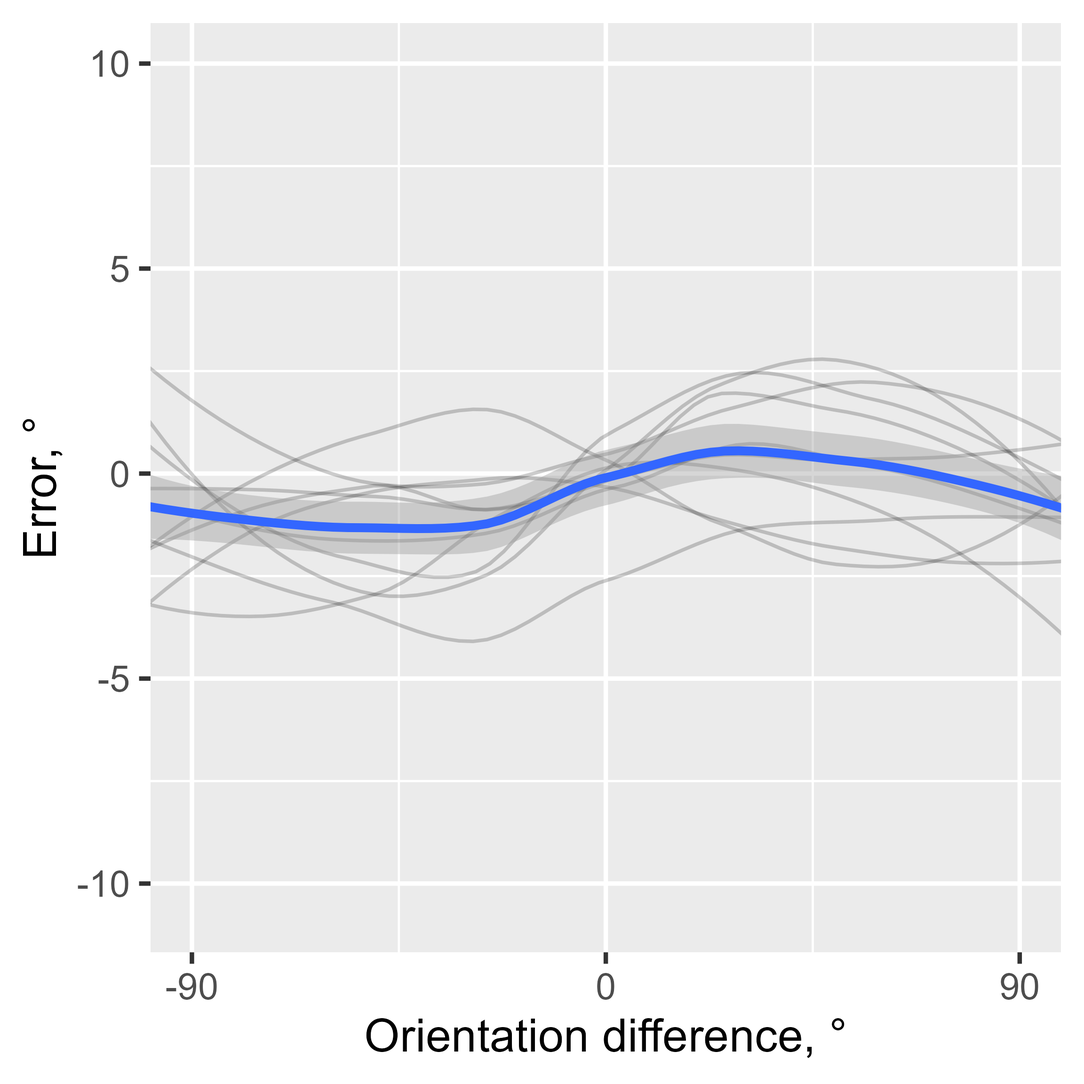
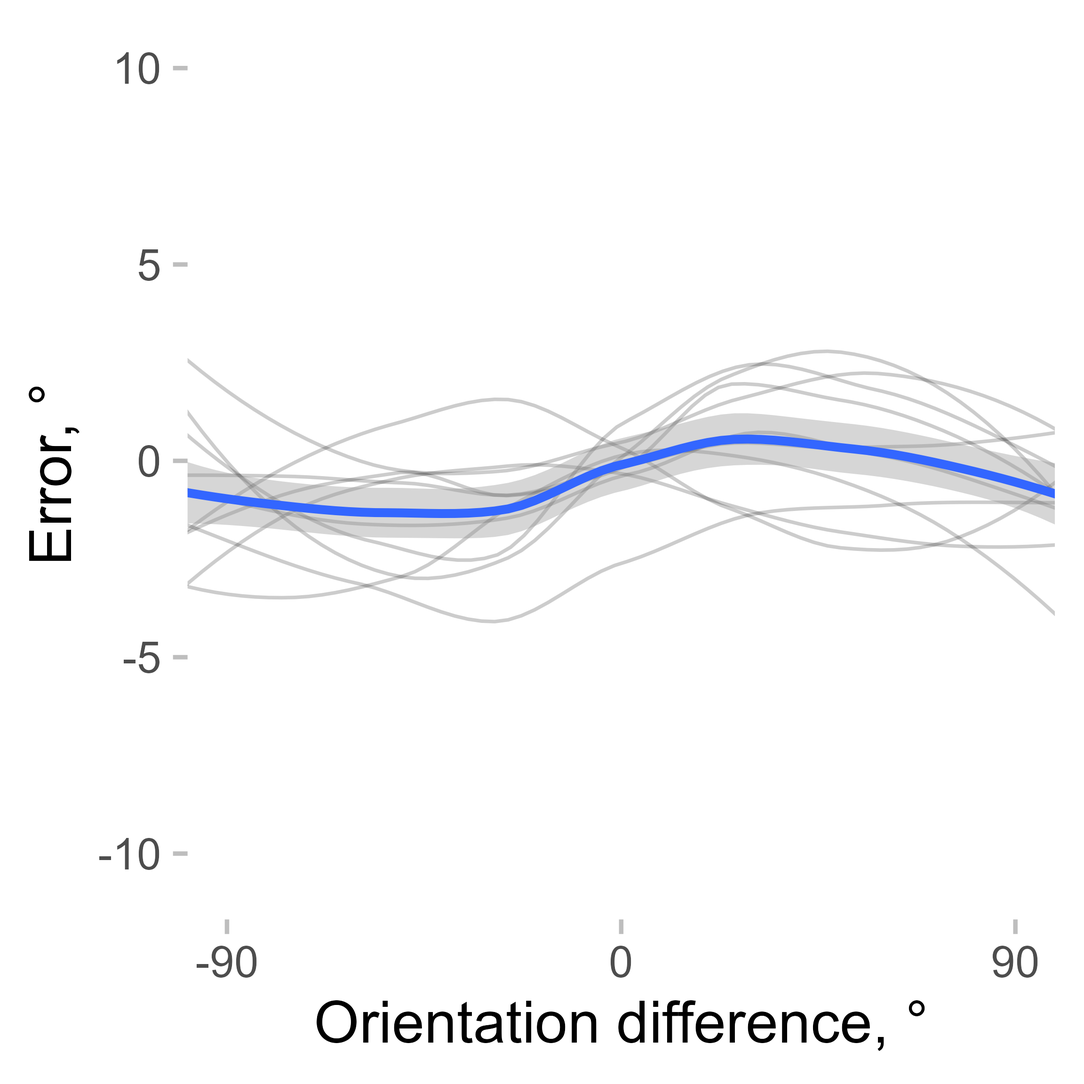
docs updated

diff --git a/docs/articles/cardinal_biases.html b/docs/articles/cardinal_biases.html
@@ -134,31 +134,40 @@ bias (disregarding the sign of the average error).</p>
 <p>Then, we can check how SD estimates are affected by the removal of
 cardinal biases. For the sake of completeness, I also show the result of
 removing the mean error only (which is close to nothing).</p>
-<p>First, for each observer, I compute a corrected error.</p>
+<p>First, for each observer, I compute a corrected error and find the
+trials likely to be the outliers. <code>remove_cardinal_biases</code>
+returns a <code>data.table</code> object with multiple columns with the
+most commonly used ones being the bias-corrected error
+(<code>be_c</code>) and an outlier marker (<code>is_outlier</code>). I
+save them in the <code>data</code>:</p>
 <div class="sourceCode" id="cb5"><pre class="downlit sourceCode r">
-<code class="sourceCode R"><span><span class="va">data</span><span class="op">[</span>, <span class="va">err_corrected</span> <span class="op">:=</span> <span class="fu"><a href="../reference/remove_cardinal_biases.html">remove_cardinal_biases</a></span><span class="op">(</span><span class="va">err</span>, <span class="va">orientation</span><span class="op">)</span><span class="op">$</span><span class="va">be_c</span>, by <span class="op">=</span> <span class="va">observer</span><span class="op">]</span></span>
-<span><span class="va">data</span><span class="op">[</span>, <span class="va">err_mean_corrected</span> <span class="op">:=</span> <span class="fu"><a href="../reference/angle_diff_rad.html">angle_diff_180</a></span><span class="op">(</span><span class="va">err</span>, <span class="fu"><a href="../reference/circ_mean_rad.html">circ_mean_180</a></span><span class="op">(</span><span class="va">err</span><span class="op">)</span><span class="op">)</span>, by <span class="op">=</span> <span class="va">observer</span><span class="op">]</span></span></code></pre></div>
-<p>Then, I plot these errors along with the raw errors as a function of
-the previous item orientation and plot them.</p>
+<code class="sourceCode R"><span><span class="va">data</span><span class="op">[</span>, <span class="fu"><a href="https://rdrr.io/r/base/c.html" class="external-link">c</a></span><span class="op">(</span><span class="st">"err_corrected"</span>, <span class="st">"is_outlier"</span><span class="op">)</span> <span class="op">:=</span> <span class="fu"><a href="../reference/remove_cardinal_biases.html">remove_cardinal_biases</a></span><span class="op">(</span><span class="va">err</span>, <span class="va">orientation</span><span class="op">)</span><span class="op">[</span>, <span class="fu"><a href="https://rdrr.io/r/base/c.html" class="external-link">c</a></span><span class="op">(</span><span class="st">"be_c"</span>, <span class="st">"is_outlier"</span><span class="op">)</span><span class="op">]</span>, by <span class="op">=</span> <span class="va">observer</span><span class="op">]</span></span></code></pre></div>
+<p>As a comparison, we can just use a correction for the overall mean
+error.</p>
 <div class="sourceCode" id="cb6"><pre class="downlit sourceCode r">
-<code class="sourceCode R"><span><span class="va">datam</span> <span class="op">&lt;-</span> <span class="fu"><a href="https://rdatatable.gitlab.io/data.table/reference/melt.data.table.html" class="external-link">melt</a></span><span class="op">(</span><span class="va">data</span><span class="op">[</span><span class="op">!</span><span class="fu"><a href="https://rdrr.io/r/base/NA.html" class="external-link">is.na</a></span><span class="op">(</span><span class="va">diff_in_ori</span><span class="op">)</span><span class="op">]</span>, id.vars <span class="op">=</span> <span class="fu"><a href="https://rdrr.io/r/base/c.html" class="external-link">c</a></span><span class="op">(</span><span class="st">"diff_in_ori"</span>, <span class="st">"observer"</span><span class="op">)</span>, measure.vars <span class="op">=</span> <span class="fu"><a href="https://rdrr.io/r/base/c.html" class="external-link">c</a></span><span class="op">(</span><span class="st">"err"</span>, <span class="st">"err_corrected"</span>, <span class="st">"err_mean_corrected"</span><span class="op">)</span><span class="op">)</span></span>
+<code class="sourceCode R"><span><span class="va">data</span><span class="op">[</span>, <span class="va">err_mean_corrected</span> <span class="op">:=</span> <span class="fu"><a href="../reference/angle_diff_rad.html">angle_diff_180</a></span><span class="op">(</span><span class="va">err</span>, <span class="fu"><a href="../reference/circ_mean_rad.html">circ_mean_180</a></span><span class="op">(</span><span class="va">err</span><span class="op">)</span><span class="op">)</span>, by <span class="op">=</span> <span class="va">observer</span><span class="op">]</span></span></code></pre></div>
+<p>Then, I plot these errors along with the raw errors as a function of
+the previous item orientation (with the outliers removed) and plot
+them.</p>
+<div class="sourceCode" id="cb7"><pre class="downlit sourceCode r">
+<code class="sourceCode R"><span><span class="va">datam</span> <span class="op">&lt;-</span> <span class="fu"><a href="https://rdatatable.gitlab.io/data.table/reference/melt.data.table.html" class="external-link">melt</a></span><span class="op">(</span><span class="va">data</span><span class="op">[</span><span class="op">!</span><span class="fu"><a href="https://rdrr.io/r/base/NA.html" class="external-link">is.na</a></span><span class="op">(</span><span class="va">diff_in_ori</span><span class="op">)</span><span class="op">]</span>, id.vars <span class="op">=</span> <span class="fu"><a href="https://rdrr.io/r/base/c.html" class="external-link">c</a></span><span class="op">(</span><span class="st">"diff_in_ori"</span>, <span class="st">"observer"</span>, <span class="st">"is_outlier"</span><span class="op">)</span>, measure.vars <span class="op">=</span> <span class="fu"><a href="https://rdrr.io/r/base/c.html" class="external-link">c</a></span><span class="op">(</span><span class="st">"err"</span>, <span class="st">"err_corrected"</span>, <span class="st">"err_mean_corrected"</span><span class="op">)</span><span class="op">)</span></span>
 <span><span class="va">datam</span><span class="op">[</span>, <span class="va">variablef</span> <span class="op">:=</span> <span class="fu"><a href="https://rdrr.io/r/base/factor.html" class="external-link">factor</a></span><span class="op">(</span><span class="va">variable</span>, levels <span class="op">=</span> <span class="fu"><a href="https://rdrr.io/r/base/c.html" class="external-link">c</a></span><span class="op">(</span><span class="st">"err"</span>, <span class="st">"err_mean_corrected"</span>, <span class="st">"err_corrected"</span><span class="op">)</span>, labels <span class="op">=</span> <span class="fu"><a href="https://rdrr.io/r/base/c.html" class="external-link">c</a></span><span class="op">(</span><span class="st">"Raw error"</span>, <span class="st">"Mean-corrected"</span>, <span class="st">"Mean and cardinal bias removed"</span><span class="op">)</span><span class="op">)</span><span class="op">]</span></span>
 <span><span class="va">datam</span><span class="op">[</span>, <span class="va">err_rel_to_prev_targ</span> <span class="op">:=</span> <span class="fu"><a href="https://rdrr.io/r/base/ifelse.html" class="external-link">ifelse</a></span><span class="op">(</span><span class="va">diff_in_ori</span> <span class="op">&lt;</span> <span class="fl">0</span>, <span class="op">-</span><span class="va">value</span>, <span class="va">value</span><span class="op">)</span><span class="op">]</span></span>
 <span></span>
-<span><span class="fu"><a href="https://ggplot2.tidyverse.org/reference/ggplot.html" class="external-link">ggplot</a></span><span class="op">(</span><span class="fu"><a href="../reference/pad_circ.html">pad_circ</a></span><span class="op">(</span><span class="va">datam</span>, <span class="st">"diff_in_ori"</span><span class="op">)</span>, <span class="fu"><a href="https://ggplot2.tidyverse.org/reference/aes.html" class="external-link">aes</a></span><span class="op">(</span>x <span class="op">=</span> <span class="va">diff_in_ori</span>, y <span class="op">=</span> <span class="va">value</span><span class="op">)</span><span class="op">)</span> <span class="op">+</span></span>
+<span><span class="fu"><a href="https://ggplot2.tidyverse.org/reference/ggplot.html" class="external-link">ggplot</a></span><span class="op">(</span><span class="fu"><a href="../reference/pad_circ.html">pad_circ</a></span><span class="op">(</span><span class="va">datam</span><span class="op">[</span><span class="va">is_outlier</span> <span class="op">==</span> <span class="cn">F</span><span class="op">]</span>, <span class="st">"diff_in_ori"</span><span class="op">)</span>, <span class="fu"><a href="https://ggplot2.tidyverse.org/reference/aes.html" class="external-link">aes</a></span><span class="op">(</span>x <span class="op">=</span> <span class="va">diff_in_ori</span>, y <span class="op">=</span> <span class="va">value</span><span class="op">)</span><span class="op">)</span> <span class="op">+</span></span>
 <span>  <span class="fu"><a href="https://ggplot2.tidyverse.org/reference/geom_path.html" class="external-link">geom_line</a></span><span class="op">(</span><span class="fu"><a href="https://ggplot2.tidyverse.org/reference/aes.html" class="external-link">aes</a></span><span class="op">(</span>group <span class="op">=</span> <span class="va">observer</span><span class="op">)</span>, stat <span class="op">=</span> <span class="st">"smooth"</span>, size <span class="op">=</span> <span class="fl">0.4</span>, color <span class="op">=</span> <span class="st">"black"</span>, alpha <span class="op">=</span> <span class="fl">0.2</span>, method <span class="op">=</span> <span class="st">"loess"</span><span class="op">)</span> <span class="op">+</span></span>
 <span>  <span class="fu"><a href="https://ggplot2.tidyverse.org/reference/geom_smooth.html" class="external-link">geom_smooth</a></span><span class="op">(</span>se <span class="op">=</span> <span class="cn">TRUE</span>, method <span class="op">=</span> <span class="st">"loess"</span><span class="op">)</span> <span class="op">+</span></span>
 <span>  <span class="fu"><a href="https://ggplot2.tidyverse.org/reference/facet_grid.html" class="external-link">facet_grid</a></span><span class="op">(</span><span class="op">~</span><span class="va">variablef</span><span class="op">)</span> <span class="op">+</span></span>
-<span>  <span class="fu"><a href="https://ggplot2.tidyverse.org/reference/coord_cartesian.html" class="external-link">coord_cartesian</a></span><span class="op">(</span>xlim <span class="op">=</span> <span class="fu"><a href="https://rdrr.io/r/base/c.html" class="external-link">c</a></span><span class="op">(</span><span class="op">-</span><span class="fl">90</span>, <span class="fl">90</span><span class="op">)</span>, ylim <span class="op">=</span> <span class="fu"><a href="https://rdrr.io/r/base/c.html" class="external-link">c</a></span><span class="op">(</span><span class="op">-</span><span class="fl">5</span>, <span class="fl">5</span><span class="op">)</span><span class="op">)</span> <span class="op">+</span></span>
+<span>  <span class="fu"><a href="https://ggplot2.tidyverse.org/reference/coord_cartesian.html" class="external-link">coord_cartesian</a></span><span class="op">(</span>xlim <span class="op">=</span> <span class="fu"><a href="https://rdrr.io/r/base/c.html" class="external-link">c</a></span><span class="op">(</span><span class="op">-</span><span class="fl">90</span>, <span class="fl">90</span><span class="op">)</span>, ylim <span class="op">=</span> <span class="fu"><a href="https://rdrr.io/r/base/c.html" class="external-link">c</a></span><span class="op">(</span><span class="op">-</span><span class="fl">3</span>, <span class="fl">3</span><span class="op">)</span><span class="op">)</span> <span class="op">+</span></span>
 <span>  <span class="fu"><a href="https://ggplot2.tidyverse.org/reference/scale_continuous.html" class="external-link">scale_x_continuous</a></span><span class="op">(</span>breaks <span class="op">=</span> <span class="fu"><a href="https://rdrr.io/r/base/seq.html" class="external-link">seq</a></span><span class="op">(</span><span class="op">-</span><span class="fl">90</span>, <span class="fl">90</span>, <span class="fl">90</span><span class="op">)</span><span class="op">)</span> <span class="op">+</span></span>
 <span>  <span class="fu"><a href="https://ggplot2.tidyverse.org/reference/labs.html" class="external-link">labs</a></span><span class="op">(</span>y <span class="op">=</span> <span class="st">"Error, °"</span>, x <span class="op">=</span> <span class="st">"Orientation difference, °"</span><span class="op">)</span></span>
 <span><span class="co">#&gt; `geom_smooth()` using formula = 'y ~ x'</span></span>
 <span><span class="co">#&gt; `geom_smooth()` using formula = 'y ~ x'</span></span></code></pre></div>
-<p><img src="cardinal_biases_files/figure-html/unnamed-chunk-3-1.png" width="100%" height="40%"></p>
+<p><img src="cardinal_biases_files/figure-html/unnamed-chunk-4-1.png" width="100%" height="40%"></p>
 <p>To make things clearer, I plot serial dependence as a function of
 absolute orientation differences.</p>
-<div class="sourceCode" id="cb7"><pre class="downlit sourceCode r">
-<code class="sourceCode R"><span><span class="fu"><a href="https://ggplot2.tidyverse.org/reference/ggplot.html" class="external-link">ggplot</a></span><span class="op">(</span><span class="va">datam</span>, <span class="fu"><a href="https://ggplot2.tidyverse.org/reference/aes.html" class="external-link">aes</a></span><span class="op">(</span></span>
+<div class="sourceCode" id="cb8"><pre class="downlit sourceCode r">
+<code class="sourceCode R"><span><span class="fu"><a href="https://ggplot2.tidyverse.org/reference/ggplot.html" class="external-link">ggplot</a></span><span class="op">(</span><span class="va">datam</span><span class="op">[</span><span class="va">is_outlier</span> <span class="op">==</span> <span class="cn">F</span><span class="op">]</span>, <span class="fu"><a href="https://ggplot2.tidyverse.org/reference/aes.html" class="external-link">aes</a></span><span class="op">(</span></span>
 <span>  x <span class="op">=</span> <span class="fu"><a href="https://rdrr.io/r/base/MathFun.html" class="external-link">abs</a></span><span class="op">(</span><span class="va">diff_in_ori</span><span class="op">)</span>,</span>
 <span>  y <span class="op">=</span> <span class="va">err_rel_to_prev_targ</span>,</span>
 <span>  color <span class="op">=</span> <span class="va">variablef</span></span>
@@ -167,49 +176,85 @@ absolute orientation differences.</p>
 <span>  <span class="fu"><a href="https://ggplot2.tidyverse.org/reference/geom_smooth.html" class="external-link">geom_smooth</a></span><span class="op">(</span>se <span class="op">=</span> <span class="cn">TRUE</span>, method <span class="op">=</span> <span class="st">"loess"</span><span class="op">)</span> <span class="op">+</span></span>
 <span>  <span class="fu"><a href="https://ggplot2.tidyverse.org/reference/facet_grid.html" class="external-link">facet_grid</a></span><span class="op">(</span><span class="op">~</span><span class="va">variablef</span><span class="op">)</span> <span class="op">+</span></span>
 <span>  <span class="fu"><a href="https://ggplot2.tidyverse.org/reference/coord_cartesian.html" class="external-link">coord_cartesian</a></span><span class="op">(</span>xlim <span class="op">=</span> <span class="fu"><a href="https://rdrr.io/r/base/c.html" class="external-link">c</a></span><span class="op">(</span><span class="fl">0</span>, <span class="fl">90</span><span class="op">)</span><span class="op">)</span> <span class="op">+</span></span>
-<span>  <span class="fu"><a href="https://ggplot2.tidyverse.org/reference/theme.html" class="external-link">theme</a></span><span class="op">(</span>legend.position <span class="op">=</span> <span class="st">"top"</span><span class="op">)</span> <span class="op">+</span></span>
-<span>  <span class="fu"><a href="https://ggplot2.tidyverse.org/reference/labs.html" class="external-link">labs</a></span><span class="op">(</span>color <span class="op">=</span> <span class="cn">NULL</span>, y <span class="op">=</span> <span class="st">"Bias towards previous targets"</span>, x <span class="op">=</span> <span class="st">"Absolute orientation difference, °"</span><span class="op">)</span> <span class="op">+</span></span>
+<span>  <span class="fu"><a href="https://ggplot2.tidyverse.org/reference/theme.html" class="external-link">theme</a></span><span class="op">(</span>legend.position <span class="op">=</span> <span class="st">"none"</span><span class="op">)</span> <span class="op">+</span></span>
+<span>  <span class="fu"><a href="https://ggplot2.tidyverse.org/reference/labs.html" class="external-link">labs</a></span><span class="op">(</span></span>
+<span>    color <span class="op">=</span> <span class="cn">NULL</span>, y <span class="op">=</span> <span class="st">"Bias towards previous targets"</span>,</span>
+<span>    x <span class="op">=</span> <span class="st">"Absolute orientation difference, °"</span></span>
+<span>  <span class="op">)</span> <span class="op">+</span></span>
 <span>  <span class="fu"><a href="https://ggplot2.tidyverse.org/reference/scale_continuous.html" class="external-link">scale_x_continuous</a></span><span class="op">(</span>breaks <span class="op">=</span> <span class="fu"><a href="https://rdrr.io/r/base/seq.html" class="external-link">seq</a></span><span class="op">(</span><span class="fl">0</span>, <span class="fl">90</span>, <span class="fl">30</span><span class="op">)</span><span class="op">)</span></span>
 <span><span class="co">#&gt; `geom_smooth()` using formula = 'y ~ x'</span></span></code></pre></div>
-<p><img src="cardinal_biases_files/figure-html/unnamed-chunk-4-1.png" width="100%" height="40%"></p>
+<p><img src="cardinal_biases_files/figure-html/unnamed-chunk-5-1.png" width="100%" height="40%"></p>
 <p>As you can see, when estimated using error corrected for cardinal
 bias, SD looks “better” in the sense that around zero (where no bias is
 expected), the SD is closer to zero, and there is also less of a bump
-around 90°. Correcting for cardinal biases also reduces the variability
-of the errors, making the SD effect more pronounced.</p>
+around 90° (this bump is probably a result of the large error
+variability / fewer data points in this dataset). Correcting for
+cardinal biases also reduces the variability of the errors, making the
+SD effect more pronounced. But note also that the confidence intervals
+in these plots are not quite right as they do not account for
+between-subject and within-subject variability properly. A better
+approach is to bin the data or to smooth the data by subject and then
+compute the confidence intervals. These approaches are illustrated
+below.</p>
 <div class="section level2">
 <h2 id="estimating-the-serial-dependence">Estimating the serial dependence<a class="anchor" aria-label="anchor" href="#estimating-the-serial-dependence"></a>
 </h2>
 <p>In the second part of the vignette, I show how to estimate the serial
-dependence bias itself using the asymmetry in error probability density.
-This can be done using the <code><a href="../reference/density_asymmetry.html">density_asymmetry()</a></code> function.
-This function computes a smoothed estimate of the asymmetry in error
+dependence bias using the asymmetry in error probability density. This
+can be done using the <code><a href="../reference/density_asymmetry.html">density_asymmetry()</a></code> function. This
+function computes a smoothed estimate of the asymmetry in error
 probability at each of <em>N</em> (181 by default) steps across the
 dissimilarity range.</p>
-<div class="sourceCode" id="cb8"><pre class="downlit sourceCode r">
+<div class="sourceCode" id="cb9"><pre class="downlit sourceCode r">
 <code class="sourceCode R"><span><span class="va">data</span><span class="op">[</span>, <span class="va">abs_diff_in_ori</span> <span class="op">:=</span> <span class="fu"><a href="https://rdrr.io/r/base/MathFun.html" class="external-link">abs</a></span><span class="op">(</span><span class="va">diff_in_ori</span><span class="op">)</span><span class="op">]</span></span>
 <span><span class="va">data</span><span class="op">[</span>, <span class="va">err_rel_to_prev_targ</span> <span class="op">:=</span> <span class="fu"><a href="https://rdrr.io/r/base/ifelse.html" class="external-link">ifelse</a></span><span class="op">(</span><span class="va">diff_in_ori</span> <span class="op">&lt;</span> <span class="fl">0</span>, <span class="op">-</span><span class="va">err_corrected</span>, <span class="va">err_corrected</span><span class="op">)</span><span class="op">]</span></span>
 <span></span>
-<span><span class="va">err_dens</span> <span class="op">&lt;-</span> <span class="fu"><a href="../reference/density_asymmetry.html">density_asymmetry</a></span><span class="op">(</span><span class="va">data</span><span class="op">[</span><span class="op">!</span><span class="fu"><a href="https://rdrr.io/r/base/NA.html" class="external-link">is.na</a></span><span class="op">(</span><span class="va">err_rel_to_prev_targ</span><span class="op">)</span><span class="op">]</span>, circ_space <span class="op">=</span> <span class="fl">180</span>, weights_sd <span class="op">=</span> <span class="fl">10</span>, </span>
-<span>                              xvar <span class="op">=</span> <span class="st">"abs_diff_in_ori"</span>, yvar <span class="op">=</span> <span class="st">"err_rel_to_prev_targ"</span>, by <span class="op">=</span> <span class="fu"><a href="https://rdrr.io/r/base/c.html" class="external-link">c</a></span><span class="op">(</span><span class="st">"observer"</span><span class="op">)</span><span class="op">)</span></span>
+<span><span class="va">err_dens</span> <span class="op">&lt;-</span> <span class="fu"><a href="../reference/density_asymmetry.html">density_asymmetry</a></span><span class="op">(</span><span class="va">data</span><span class="op">[</span><span class="op">!</span><span class="fu"><a href="https://rdrr.io/r/base/NA.html" class="external-link">is.na</a></span><span class="op">(</span><span class="va">err_rel_to_prev_targ</span><span class="op">)</span> <span class="op">&amp;</span> <span class="va">is_outlier</span> <span class="op">==</span> <span class="cn">F</span><span class="op">]</span>,</span>
+<span>  circ_space <span class="op">=</span> <span class="fl">180</span>, weights_sd <span class="op">=</span> <span class="fl">10</span>,</span>
+<span>  xvar <span class="op">=</span> <span class="st">"abs_diff_in_ori"</span>, yvar <span class="op">=</span> <span class="st">"err_rel_to_prev_targ"</span>, by <span class="op">=</span> <span class="fu"><a href="https://rdrr.io/r/base/c.html" class="external-link">c</a></span><span class="op">(</span><span class="st">"observer"</span><span class="op">)</span></span>
+<span><span class="op">)</span></span></code></pre></div>
+<p>One can then compute the statistics to test whether the bias is
+different from zero at different dissimilarity ranges. Note that these
+ranges will depend on the smoothing window (or, more precisely,
+<code>weights_sd</code> - the standard deviations of a smoothing
+kernel), but usually the exact range, in which the serial dependence is
+present, is not the main question of the study. The same issue will be
+present with other approaches (e.g., the bin width used when binning the
+data will have the same effect).</p>
+<p>As a comparison, one can use binned errors:</p>
+<div class="sourceCode" id="cb10"><pre class="downlit sourceCode r">
+<code class="sourceCode R"><span><span class="va">data</span><span class="op">[</span>, <span class="va">abs_diff_in_ori_bin</span> <span class="op">:=</span> <span class="fu">apastats</span><span class="fu">::</span><span class="fu"><a href="https://rdrr.io/pkg/apastats/man/adv_cut.html" class="external-link">adv_cut</a></span><span class="op">(</span><span class="va">abs_diff_in_ori</span>, cuts <span class="op">=</span> <span class="fu"><a href="https://rdrr.io/r/base/seq.html" class="external-link">seq</a></span><span class="op">(</span><span class="fl">0</span>, <span class="fl">90</span>, <span class="fl">10</span><span class="op">)</span>, include_oob <span class="op">=</span> <span class="cn">T</span>, num_labels <span class="op">=</span> <span class="cn">F</span>, labels_at_means <span class="op">=</span> <span class="cn">T</span><span class="op">)</span><span class="op">]</span></span>
 <span></span>
-<span><span class="va">data</span><span class="op">[</span>,<span class="va">abs_diff_in_ori_bin</span><span class="op">:=</span><span class="fu">apastats</span><span class="fu">::</span><span class="fu"><a href="https://rdrr.io/pkg/apastats/man/adv_cut.html" class="external-link">adv_cut</a></span><span class="op">(</span><span class="va">abs_diff_in_ori</span>, cuts <span class="op">=</span> <span class="fu"><a href="https://rdrr.io/r/base/seq.html" class="external-link">seq</a></span><span class="op">(</span><span class="fl">0</span>,<span class="fl">90</span>,<span class="fl">10</span><span class="op">)</span>, include_oob <span class="op">=</span> <span class="cn">T</span>, num_labels <span class="op">=</span> <span class="cn">F</span>, labels_at_means <span class="op">=</span> <span class="cn">T</span><span class="op">)</span><span class="op">]</span></span>
-<span></span>
-<span><span class="va">mean_err</span> <span class="op">&lt;-</span> <span class="fu">apastats</span><span class="fu">::</span><span class="fu"><a href="https://rdrr.io/pkg/apastats/man/get_superb_ci.html" class="external-link">get_superb_ci</a></span><span class="op">(</span><span class="va">data</span><span class="op">[</span><span class="op">!</span><span class="fu"><a href="https://rdrr.io/r/base/NA.html" class="external-link">is.na</a></span><span class="op">(</span><span class="va">err_rel_to_prev_targ</span><span class="op">)</span><span class="op">]</span>, wid <span class="op">=</span> <span class="st">'observer'</span>, within <span class="op">=</span> <span class="st">'abs_diff_in_ori_bin'</span>, value_var <span class="op">=</span> <span class="st">'err_rel_to_prev_targ'</span><span class="op">)</span></span>
+<span><span class="va">mean_err</span> <span class="op">&lt;-</span> <span class="fu">apastats</span><span class="fu">::</span><span class="fu"><a href="https://rdrr.io/pkg/apastats/man/get_superb_ci.html" class="external-link">get_superb_ci</a></span><span class="op">(</span><span class="va">data</span><span class="op">[</span><span class="op">!</span><span class="fu"><a href="https://rdrr.io/r/base/NA.html" class="external-link">is.na</a></span><span class="op">(</span><span class="va">err_rel_to_prev_targ</span><span class="op">)</span> <span class="op">&amp;</span> <span class="va">is_outlier</span> <span class="op">==</span> <span class="cn">F</span><span class="op">]</span>, wid <span class="op">=</span> <span class="st">"observer"</span>, within <span class="op">=</span> <span class="st">"abs_diff_in_ori_bin"</span>, value_var <span class="op">=</span> <span class="st">"err_rel_to_prev_targ"</span><span class="op">)</span></span>
 <span><span class="co">#&gt; Loading required namespace: superb</span></span>
 <span><span class="fu"><a href="https://rdatatable.gitlab.io/data.table/reference/setDT.html" class="external-link">setDT</a></span><span class="op">(</span><span class="va">mean_err</span><span class="op">)</span></span>
-<span><span class="va">mean_err</span><span class="op">[</span>,<span class="va">abs_diff_in_ori_bin</span><span class="op">:=</span><span class="fu"><a href="https://rdrr.io/r/base/numeric.html" class="external-link">as.numeric</a></span><span class="op">(</span><span class="va">abs_diff_in_ori_bin</span><span class="op">)</span><span class="op">]</span></span>
-<span></span>
-<span><span class="op">(</span><span class="op">(</span><span class="fu"><a href="https://ggplot2.tidyverse.org/reference/ggplot.html" class="external-link">ggplot</a></span><span class="op">(</span><span class="va">err_dens</span><span class="op">[</span>, <span class="fu"><a href="https://ggplot2.tidyverse.org/reference/hmisc.html" class="external-link">mean_cl_normal</a></span><span class="op">(</span><span class="va">delta</span> <span class="op">*</span> <span class="fl">100</span><span class="op">)</span>, by <span class="op">=</span> <span class="fu">.</span><span class="op">(</span><span class="va">dist</span><span class="op">)</span><span class="op">]</span>, <span class="fu"><a href="https://ggplot2.tidyverse.org/reference/aes.html" class="external-link">aes</a></span><span class="op">(</span>x <span class="op">=</span> <span class="va">dist</span>, y <span class="op">=</span> <span class="va">y</span>, ymin <span class="op">=</span> <span class="va">ymin</span>, ymax <span class="op">=</span> <span class="va">ymax</span><span class="op">)</span><span class="op">)</span> <span class="op">+</span></span>
+<span><span class="va">mean_err</span><span class="op">[</span>, <span class="va">abs_diff_in_ori_bin</span> <span class="op">:=</span> <span class="fu"><a href="https://rdrr.io/r/base/numeric.html" class="external-link">as.numeric</a></span><span class="op">(</span><span class="fu"><a href="https://rdrr.io/r/base/character.html" class="external-link">as.character</a></span><span class="op">(</span><span class="va">abs_diff_in_ori_bin</span><span class="op">)</span><span class="op">)</span><span class="op">]</span></span></code></pre></div>
+<p>Putting them side by side:</p>
+<pre class="density"><code><span><span class="va">p1</span> <span class="op">&lt;-</span> <span class="fu"><a href="https://ggplot2.tidyverse.org/reference/ggplot.html" class="external-link">ggplot</a></span><span class="op">(</span><span class="va">err_dens</span><span class="op">[</span>, <span class="fu"><a href="https://ggplot2.tidyverse.org/reference/hmisc.html" class="external-link">mean_cl_normal</a></span><span class="op">(</span><span class="va">delta</span> <span class="op">*</span> <span class="fl">100</span><span class="op">)</span>, by <span class="op">=</span> <span class="fu">.</span><span class="op">(</span><span class="va">dist</span><span class="op">)</span><span class="op">]</span>, <span class="fu"><a href="https://ggplot2.tidyverse.org/reference/aes.html" class="external-link">aes</a></span><span class="op">(</span>x <span class="op">=</span> <span class="va">dist</span>, y <span class="op">=</span> <span class="va">y</span>, ymin <span class="op">=</span> <span class="va">ymin</span>, ymax <span class="op">=</span> <span class="va">ymax</span><span class="op">)</span><span class="op">)</span> <span class="op">+</span></span>
 <span>  <span class="fu"><a href="https://ggplot2.tidyverse.org/reference/geom_path.html" class="external-link">geom_line</a></span><span class="op">(</span><span class="op">)</span> <span class="op">+</span></span>
 <span>  <span class="fu"><a href="https://ggplot2.tidyverse.org/reference/geom_ribbon.html" class="external-link">geom_ribbon</a></span><span class="op">(</span>alpha <span class="op">=</span> <span class="fl">0.1</span><span class="op">)</span> <span class="op">+</span></span>
-<span>  <span class="fu"><a href="https://ggplot2.tidyverse.org/reference/labs.html" class="external-link">labs</a></span><span class="op">(</span>y <span class="op">=</span> <span class="st">"Asymmetry in error probability density, %"</span><span class="op">)</span><span class="op">)</span> <span class="op">+</span></span>
-<span> <span class="op">(</span><span class="fu"><a href="https://ggplot2.tidyverse.org/reference/ggplot.html" class="external-link">ggplot</a></span><span class="op">(</span><span class="va">mean_err</span>, </span>
-<span>         <span class="fu"><a href="https://ggplot2.tidyverse.org/reference/aes.html" class="external-link">aes</a></span><span class="op">(</span>x <span class="op">=</span> <span class="va">abs_diff_in_ori_bin</span>, y <span class="op">=</span> <span class="va">center</span>, ymin <span class="op">=</span> <span class="va">center</span><span class="op">+</span><span class="va">lowerwidth</span>, ymax <span class="op">=</span> <span class="va">center</span><span class="op">+</span><span class="va">upperwidth</span><span class="op">)</span><span class="op">)</span> <span class="op">+</span></span>
-<span>  <span class="fu"><a href="https://ggplot2.tidyverse.org/reference/geom_path.html" class="external-link">geom_line</a></span><span class="op">(</span><span class="op">)</span><span class="op">+</span></span>
-<span>  <span class="fu"><a href="https://ggplot2.tidyverse.org/reference/geom_linerange.html" class="external-link">geom_pointrange</a></span><span class="op">(</span><span class="op">)</span> <span class="op">+</span></span>
-<span>  <span class="fu"><a href="https://ggplot2.tidyverse.org/reference/labs.html" class="external-link">labs</a></span><span class="op">(</span>y <span class="op">=</span> <span class="st">"Mean error, deg."</span><span class="op">)</span><span class="op">)</span><span class="op">)</span> <span class="op">&amp;</span> <span class="fu"><a href="https://ggplot2.tidyverse.org/reference/labs.html" class="external-link">labs</a></span><span class="op">(</span>x <span class="op">=</span> <span class="st">"Absolute orientation difference, °"</span><span class="op">)</span></span></code></pre></div>
-<p><img src="cardinal_biases_files/figure-html/density-1.png" width="66%" height="40%"></p>
+<span>  <span class="fu"><a href="https://ggplot2.tidyverse.org/reference/labs.html" class="external-link">labs</a></span><span class="op">(</span>y <span class="op">=</span> <span class="st">"Asymmetry in error probability, %"</span><span class="op">)</span></span>
+<span></span>
+<span><span class="va">p2</span> <span class="op">&lt;-</span> <span class="fu"><a href="https://ggplot2.tidyverse.org/reference/ggplot.html" class="external-link">ggplot</a></span><span class="op">(</span></span>
+<span>    <span class="va">mean_err</span>,</span>
+<span>    <span class="fu"><a href="https://ggplot2.tidyverse.org/reference/aes.html" class="external-link">aes</a></span><span class="op">(</span>x <span class="op">=</span> <span class="va">abs_diff_in_ori_bin</span>, y <span class="op">=</span> <span class="va">center</span>, ymin <span class="op">=</span> <span class="va">center</span> <span class="op">+</span> <span class="va">lowerwidth</span>, ymax <span class="op">=</span> <span class="va">center</span> <span class="op">+</span> <span class="va">upperwidth</span><span class="op">)</span></span>
+<span>  <span class="op">)</span> <span class="op">+</span></span>
+<span>    <span class="fu"><a href="https://ggplot2.tidyverse.org/reference/geom_path.html" class="external-link">geom_line</a></span><span class="op">(</span><span class="op">)</span> <span class="op">+</span></span>
+<span>    <span class="fu"><a href="https://ggplot2.tidyverse.org/reference/geom_linerange.html" class="external-link">geom_pointrange</a></span><span class="op">(</span><span class="op">)</span> <span class="op">+</span></span>
+<span>    <span class="fu"><a href="https://ggplot2.tidyverse.org/reference/labs.html" class="external-link">labs</a></span><span class="op">(</span>y <span class="op">=</span> <span class="st">"Mean error, deg."</span><span class="op">)</span></span>
+<span></span>
+<span><span class="op">(</span><span class="va">p1</span> <span class="op">+</span> <span class="va">p2</span><span class="op">)</span> <span class="op">&amp;</span></span>
+<span>  <span class="fu"><a href="https://ggplot2.tidyverse.org/reference/labs.html" class="external-link">labs</a></span><span class="op">(</span>x <span class="op">=</span> <span class="st">"Absolute orientation difference, °"</span><span class="op">)</span> <span class="op">&amp;</span></span>
+<span>  <span class="fu"><a href="https://ggplot2.tidyverse.org/reference/geom_abline.html" class="external-link">geom_hline</a></span><span class="op">(</span>yintercept <span class="op">=</span> <span class="fl">0</span>, linetype <span class="op">=</span> <span class="fl">2</span><span class="op">)</span> <span class="op">&amp;</span></span>
+<span>  <span class="fu"><a href="https://ggplot2.tidyverse.org/reference/scale_continuous.html" class="external-link">scale_x_continuous</a></span><span class="op">(</span>breaks <span class="op">=</span> <span class="fu"><a href="https://rdrr.io/r/base/seq.html" class="external-link">seq</a></span><span class="op">(</span><span class="fl">0</span>, <span class="fl">90</span>, <span class="fl">30</span><span class="op">)</span><span class="op">)</span> <span class="op">&amp;</span></span>
+<span>  <span class="fu"><a href="https://ggplot2.tidyverse.org/reference/coord_cartesian.html" class="external-link">coord_cartesian</a></span><span class="op">(</span>xlim <span class="op">=</span> <span class="fu"><a href="https://rdrr.io/r/base/c.html" class="external-link">c</a></span><span class="op">(</span><span class="fl">0</span>, <span class="fl">90</span><span class="op">)</span><span class="op">)</span> </span></code></pre>
+<p>As you can see, the overall pattern is similar, although the effect
+seems clearer when using asymmetry in probability. Note also that the
+high confidence interval (CI) for the very last bin appears for the mean
+error but not for the asymmetry measure, as the latter is more robust
+than the former (Pascucci et al. dataset has fewer data points in this
+bin compared to the others). This is also evident from the absence of a
+bump around 90 degrees that was present in the previous plots.</p>
 </div>
   </main>
 </div>
